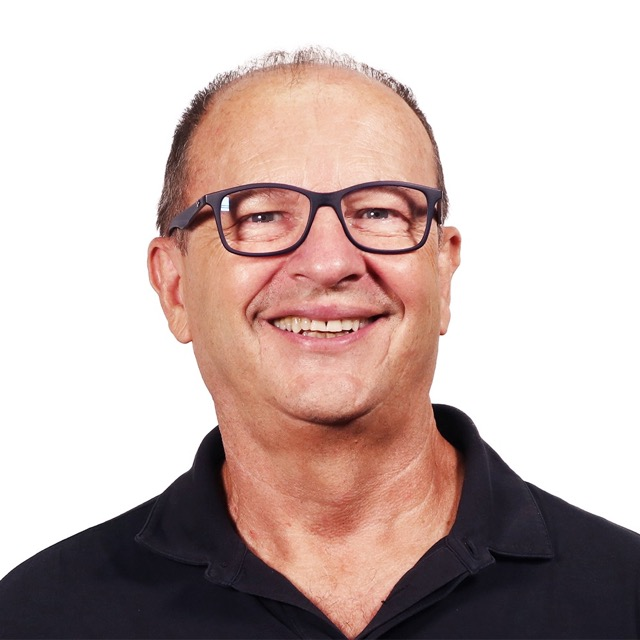
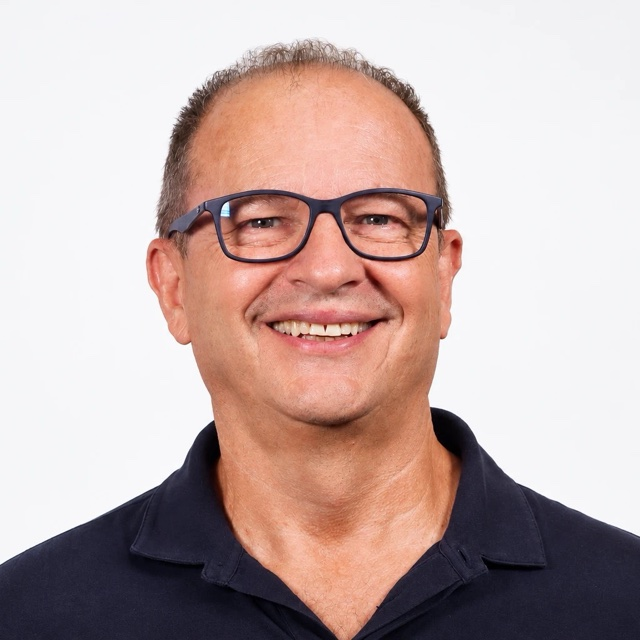
New profile photo; version images too

diff --git a/index.html b/index.html
@@ -7,12 +7,12 @@
 <meta name="description" content="Raffaele Perego is a Research Director at ISTI-CNR, Pisa, and head of the High Performance Computing Laboratory. Research on efficient information retrieval, learning to rank, sustainable AI and large-scale data analysis.">
 <meta name="author" content="Raffaele Perego">
 <link rel="canonical" href="https://raffaeleperego.github.io/">
-<link rel="icon" type="image/png" href="assets/img/favicon.png">
+<link rel="icon" type="image/png" href="assets/img/favicon.png?v=0285cc8c14">
 <meta property="og:type" content="profile">
 <meta property="og:title" content="Raffaele Perego — ISTI-CNR">
 <meta property="og:description" content="Efficient information retrieval, sustainable AI and large-scale data analysis. Head of the HPC Lab at ISTI-CNR, Pisa.">
 <meta property="og:url" content="https://raffaeleperego.github.io/">
-<meta property="og:image" content="https://raffaeleperego.github.io/assets/img/profile.jpg">
+<meta property="og:image" content="https://raffaeleperego.github.io/assets/img/profile.jpg?v=bf1437e2aa">
 <meta name="twitter:card" content="summary">
 <script type="application/ld+json">
 {
@@ -21,7 +21,7 @@
   "name": "Raffaele Perego",
   "jobTitle": "Research Director",
   "url": "https://raffaeleperego.github.io/",
-  "image": "https://raffaeleperego.github.io/assets/img/profile.jpg",
+  "image": "https://raffaeleperego.github.io/assets/img/profile.jpg?v=bf1437e2aa",
   "email": "mailto:raffaele.perego@isti.cnr.it",
   "worksFor": {
     "@type": "Organization",
@@ -87,7 +87,7 @@
     </div>
   </div>
   <figure class="hero-card">
-    <img src="assets/img/profile.jpg" alt="Portrait of Raffaele Perego" width="640" height="640">
+    <img src="assets/img/profile.jpg?v=bf1437e2aa" alt="Portrait of Raffaele Perego" width="640" height="640">
     <figcaption>
       <strong>Raffaele Perego</strong>
       <span>Research Director · Head of HPC Lab</span>

diff --git a/scripts/build_publications.py b/scripts/build_publications.py
@@ -450,7 +450,8 @@ def main() -> int:
 # new URL and is fetched at once.
 # --------------------------------------------------------------------------
 
-BUSTED = ["assets/css/style.css", "assets/js/site.js", "assets/js/publications-data.js"]
+BUSTED = ["assets/css/style.css", "assets/js/site.js", "assets/js/publications-data.js",
+          "assets/img/profile.jpg", "assets/img/favicon.png"]
 
 
 def bump_cache_busters() -> None:
